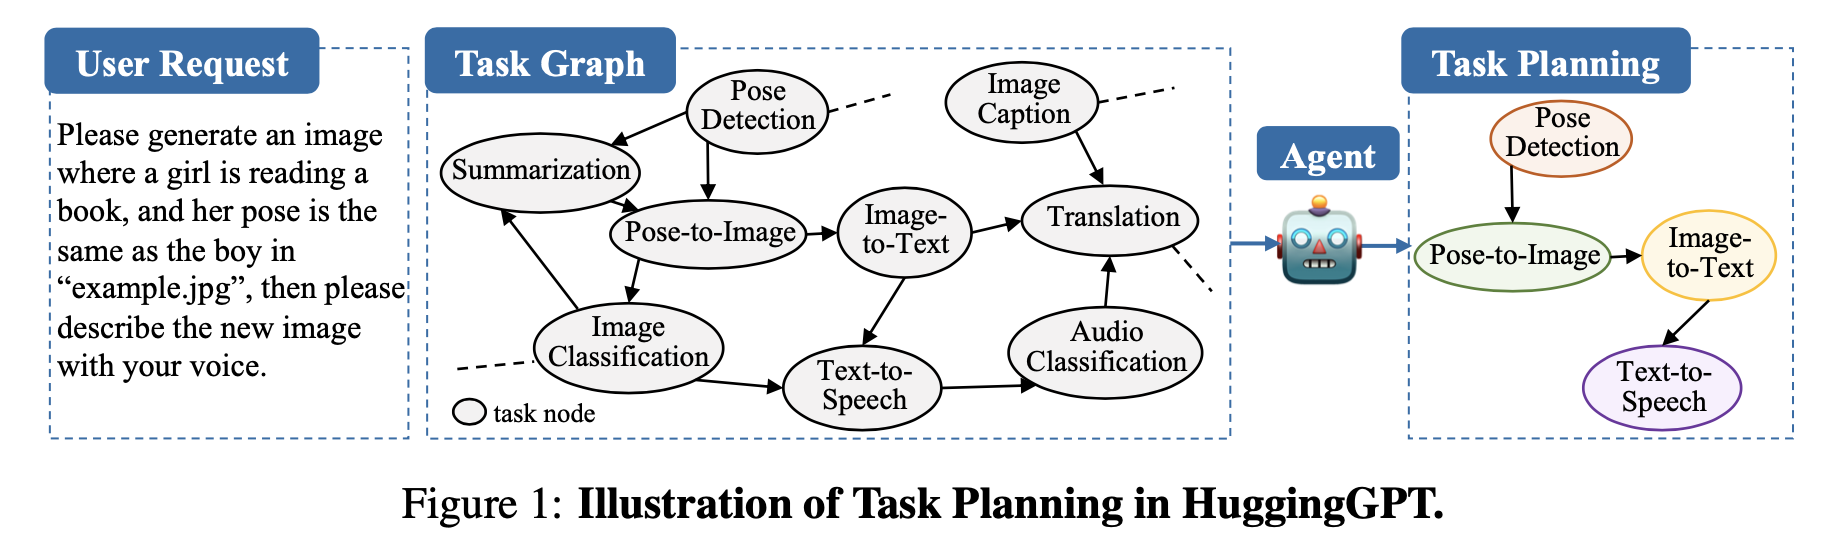
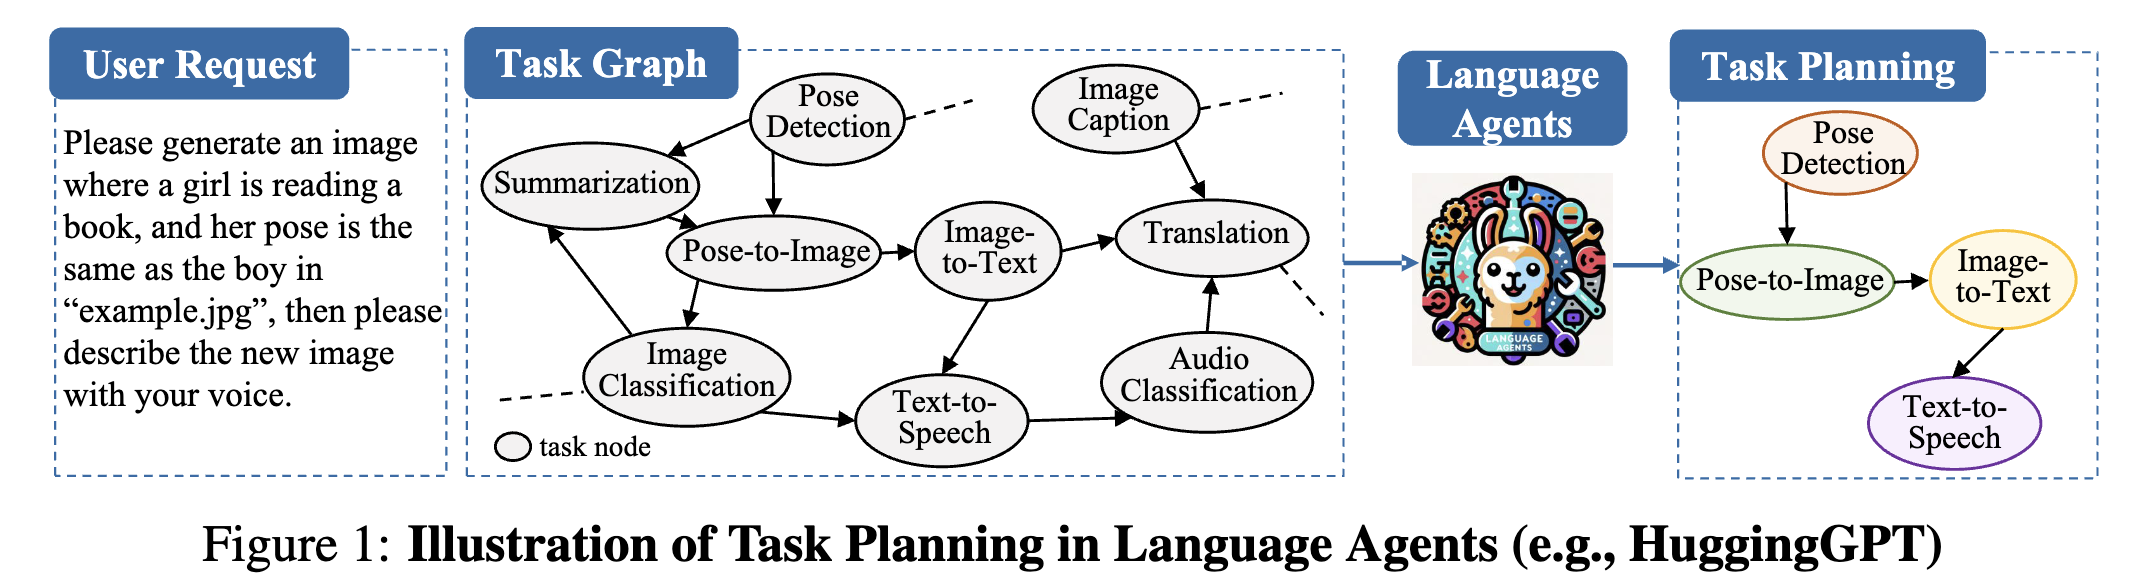
[docs] update

Changed region(s): [[0.031, 0.0297, 0.9913, 0.8327], [0.0929, 0.8922, 0.9293, 0.9814], [0.031, 0.4461, 0.2478, 0.7138]]

diff --git a/README.md b/README.md
@@ -1,17 +1,17 @@
-# Can Graph Learning Improve Task Planning?
+# Can Graph Learning Improve Planning in LLM-based Agents?
 
 
   [![Paper](https://img.shields.io/badge/Paper-arXiv%20Link-blue)](https://arxiv.org/abs/2405.19119)
 
 
-This is the official implementation for our NeurIPS 2024 paaper "Can Graph Learning Improve Task Planning?"
+This is the official implementation for our NeurIPS 2024 paper "Can Graph Learning Improve Planning in LLM-based Agents?"
 
 ###  
 
 
 ![task](./README.assets/task.jpg)
 
-Task planning aims to break down complex user request into solvable sub-tasks, thereby fulfilling the original request. In this context, the sub-tasks can be naturally viewed as a graph where nodes represent the sub-tasks, and the edges denote the dependencies among them. Consequently, task planning is a decision-making problem that involves selecting a connected path within the corresponding graph and invoking it. In this paper, we first provide theoretical analysis, showing that **the biases of attention and auto-regressive loss impede LLM's ability to effectively solve decision-making on graphs**. Based on the theoretical analysis, we **introduce an additional GNN for sub-task retrieval, available in both training-free and training-based variants**. The experiments on diverse LLMs and planning benchmarks demonstrate that the proposed method outperforms existing solutions with much less computation time. Furthermore, the performance is further enhanced by improved prompts or a fine-tuned model.
+Task planning aims to break down complex user request into solvable sub-tasks, thereby fulfilling the original request. In this context, the sub-tasks can be naturally viewed as a graph where nodes represent the sub-tasks, and the edges denote the dependencies among them. Consequently, task planning is a decision-making problem that involves **selecting a connected path within the corresponding graph** and invoking it. In this paper, we first provide theoretical analysis, showing that *the biases of attention* and *auto-regressive loss* impede LLM's ability to effectively solve decision-making on graphs. Based on the theoretical analysis, we **introduce an additional GNN for sub-task retrieval, available in both training-free and training-based variants**. The experiments on diverse LLMs and planning benchmarks demonstrate that the proposed method outperforms existing solutions with much less computation time. Furthermore, the performance is further enhanced by improved prompts or a fine-tuned model.
 
 
 
